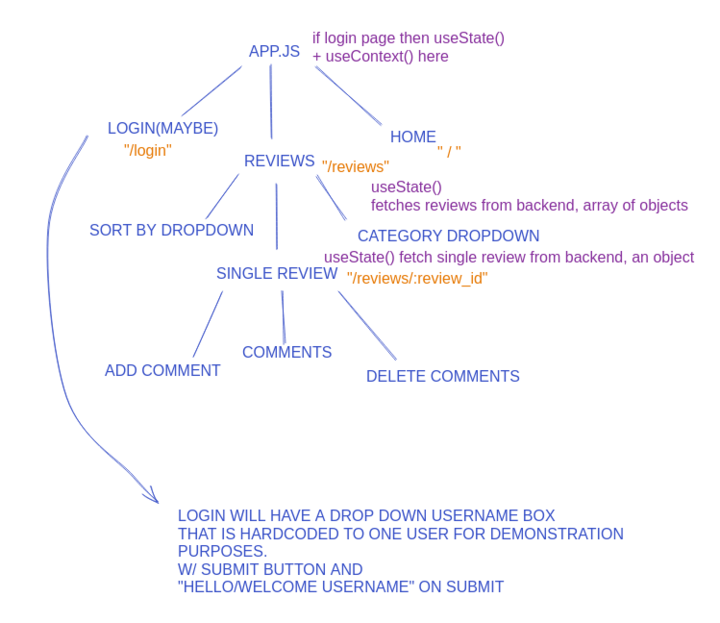
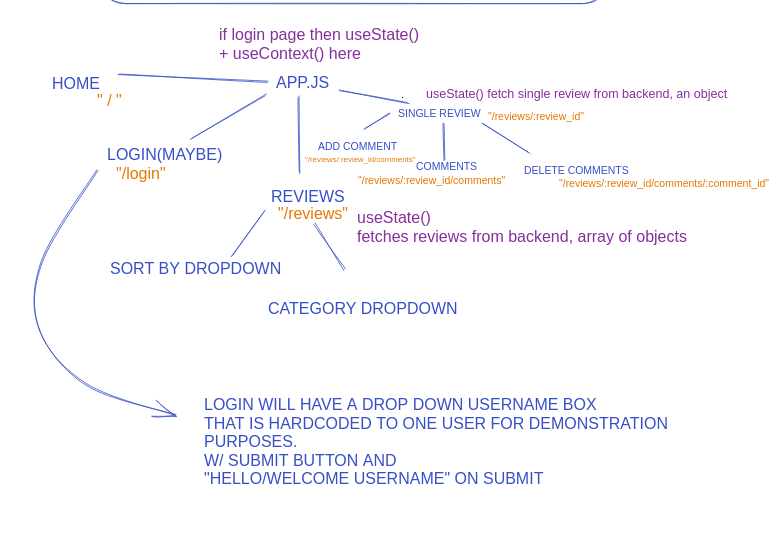
Fixed according to comments

diff --git a/src/components/Header.jsx b/src/components/Header.jsx
@@ -1,0 +1,14 @@
+import {Link} from 'react-router-dom';
+
+const Header = () => {
+    return <nav>
+           <ul className="nav-line">
+             <li className="nav-list-left"><Link to="/">Home</Link></li>
+             <li className="nav-list-left"><Link to="/reviews">Reviews</Link></li>
+             <li className='nav-list-center'><h1>Games</h1></li>
+             <li className="nav-list-right"><Link to="/login">Login</Link></li>
+           </ul>
+    </nav>
+};
+
+export default Header;

diff --git a/src/App.js b/src/App.js
@@ -1,8 +1,15 @@
 import './App.css';
+import {Routes, Route} from 'react-router-dom';
+import Home from './components/Home';
+import Header from './components/Header';
 
 function App() {
   return (
     <div className="App"> 
+    <Header/>
+    <Routes>
+      <Route path="/" element={<Home />}/>
+    </Routes>
     </div>
   );
 }
